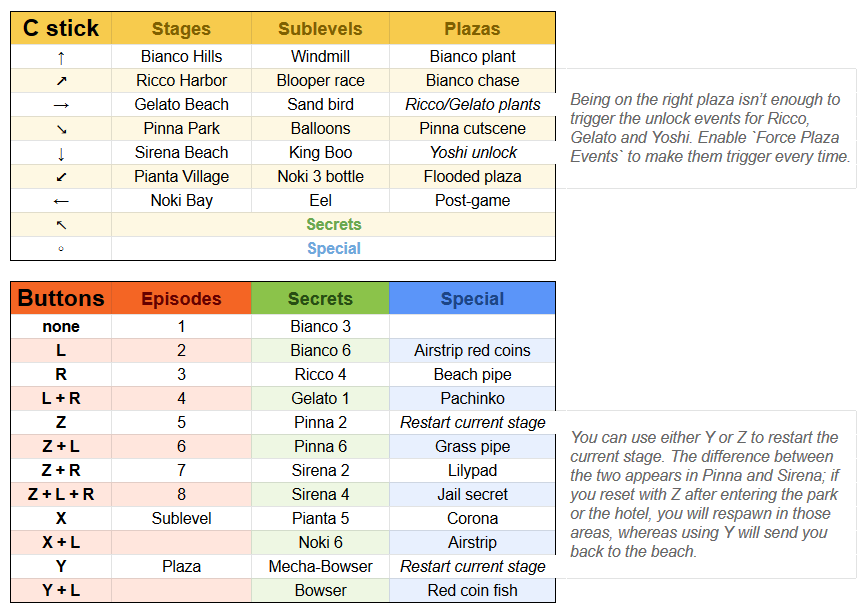
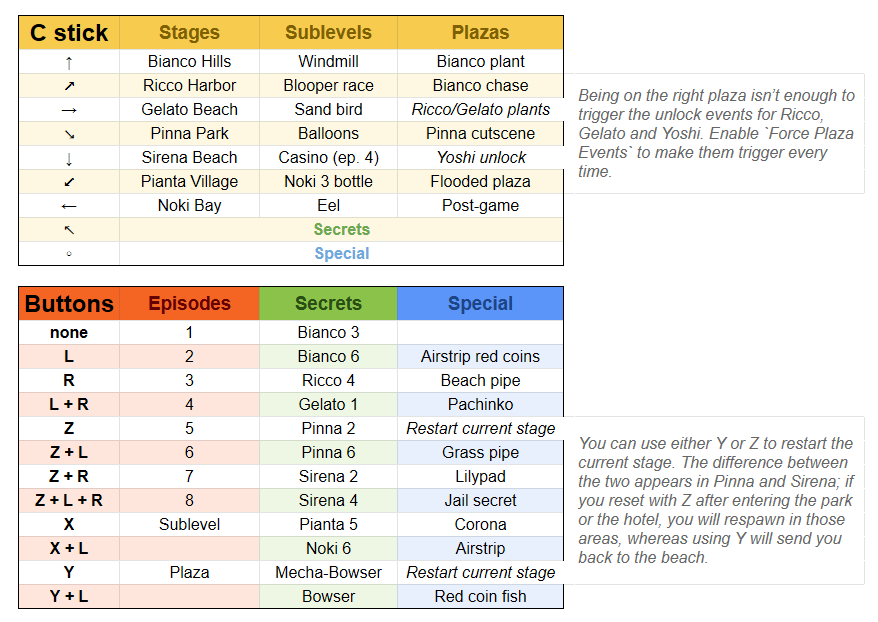
changed Sirena sublevel to ep 4 casino

Changed region(s): [[0.0, 0.0, 0.9954, 0.9902]]

diff --git a/changelog.md b/changelog.md
@@ -1,5 +1,11 @@
 # Changelog
 
+## Jul 5, 2021
+
+### Updated 'Level Select'
+
+Changed C-down + X from Sirena 5 casino to Sirena 4 casino. This shortcut was originally put in place to work around an old practice codes bug, but it now seems more sensible to repurpose it as a quick access to casino skip.
+
 ## Jul 1, 2021
 
 ### Renamed 'Fix Memory Card Encoding'
